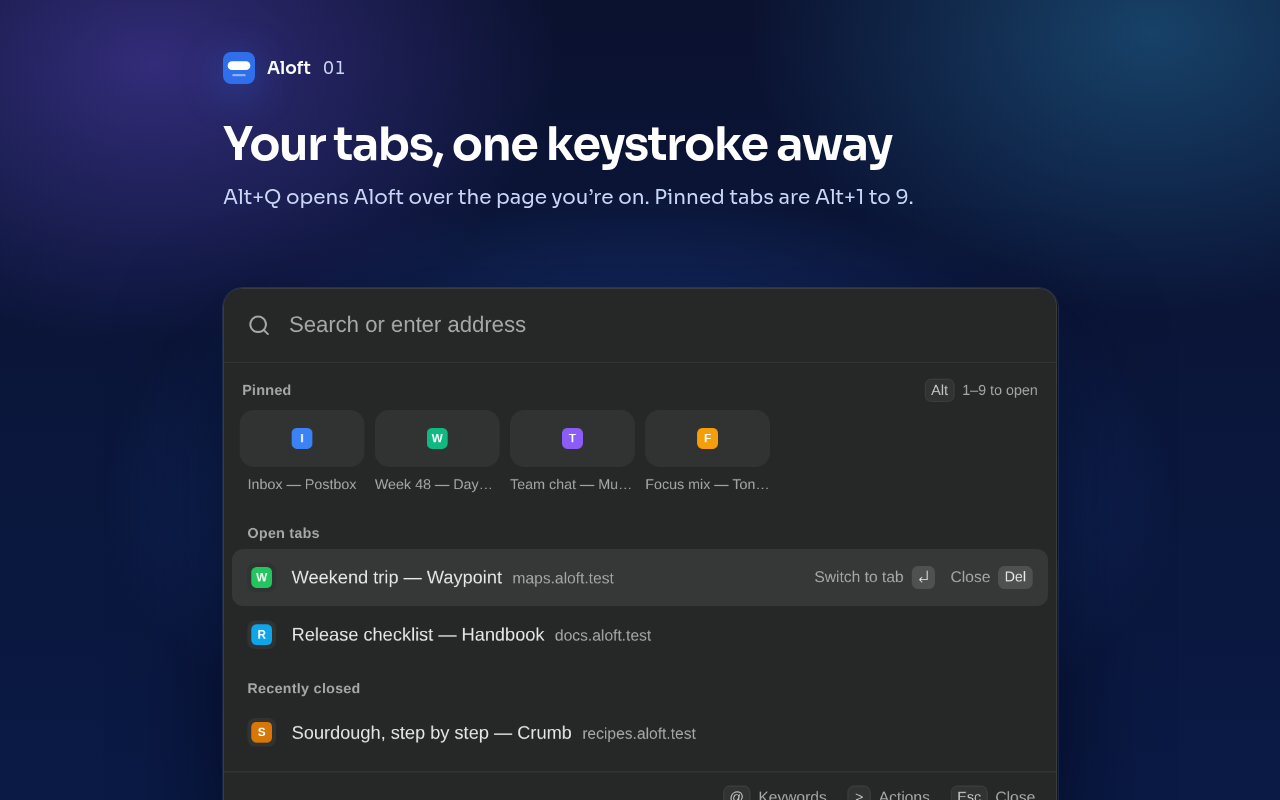
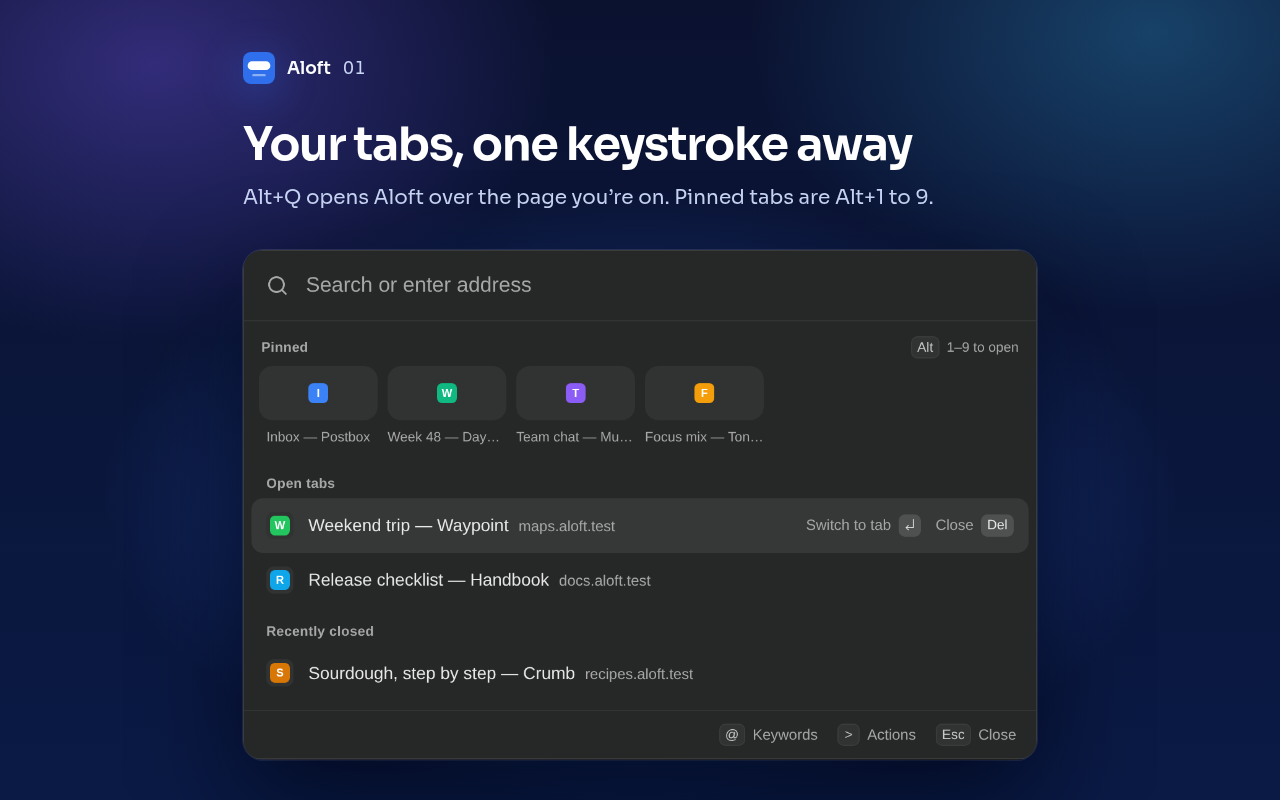
docs: show the whole palette in the first screenshot

diff --git a/scripts/screenshots.ts b/scripts/screenshots.ts
@@ -151,16 +151,31 @@ async function render(html: string, size: Size, name: string) {
   }
 }
 
+// Room under a capture that's shown whole.
+const BOTTOM_MARGIN = 40
+
 /**
  * One store screenshot: the logo, name and number, a headline and a line
  * under it, then the capture, which starts below them and runs off the
- * bottom edge.
+ * bottom edge. A `whole` capture is scaled down instead, if it has to be,
+ * to fit above the bottom edge.
  */
-async function frame(name: string, number: string, capture: Capture, caption: Caption) {
-  const width = Math.round(capture.crop.width * SCALE)
+async function frame(
+  name: string,
+  number: string,
+  capture: Capture,
+  caption: Caption,
+  { whole = false } = {},
+) {
+  const scale = whole
+    ? Math.min(SCALE, (VIEWPORT.height - SHOT_TOP - BOTTOM_MARGIN) / capture.crop.height)
+    : SCALE
+  const width = Math.round(capture.crop.width * scale)
   const left = Math.round((VIEWPORT.width - width) / 2)
   // Low enough that even a short capture runs off the bottom edge.
-  const top = Math.max(SHOT_TOP, VIEWPORT.height - capture.crop.height * SCALE + 24)
+  const top = whole
+    ? SHOT_TOP
+    : Math.max(SHOT_TOP, VIEWPORT.height - capture.crop.height * scale + 24)
   const html = `<!doctype html><html><head><meta charset="utf-8"><style>${base(VIEWPORT)}
 .head{position:absolute;top:52px;left:${left}px;right:${left}px}
 .brand{display:flex;align-items:center;gap:12px;font-weight:600;font-size:17px}
@@ -168,7 +183,7 @@ async function frame(name: string, number: string, capture: Capture, caption: Ca
 .brand span:last-child{color:#C9D6F5;font-weight:400;font-variant-numeric:tabular-nums}
 h1{margin:36px 0 0;font-weight:650;font-size:46px;line-height:1.08;letter-spacing:-.03em}
 p{margin:14px 0 0;font-weight:400;font-size:20px;line-height:1.4;color:#C9D6F5}
-.shot{position:absolute;top:${Math.round(top)}px;left:${left}px;${shotStyle(capture, SCALE, '20px 20px 0 0')}}
+.shot{position:absolute;top:${Math.round(top)}px;left:${left}px;${shotStyle(capture, scale, whole ? '20px' : '20px 20px 0 0')}}
 </style></head><body>
 <div class="head">
   <div class="brand"><span class="logo">${LOGO}</span><span>Aloft</span><span>${number}</span></div>
@@ -244,10 +259,17 @@ try {
   let aloft = await openAloft(worker, host)
   await settle(host)
   const first = await palette(host)
-  await frame('1-pinned-and-tabs', '01', first, {
-    title: 'Your tabs, one keystroke away',
-    text: 'Alt+Q opens Aloft over the page you’re on. Pinned tabs are Alt+1 to 9.',
-  })
+  await frame(
+    '1-pinned-and-tabs',
+    '01',
+    first,
+    {
+      title: 'Your tabs, one keystroke away',
+      text: 'Alt+Q opens Aloft over the page you’re on. Pinned tabs are Alt+1 to 9.',
+    },
+    // The first look at Aloft, so all of it, down to the hints at its foot.
+    { whole: true },
+  )
   await marquee(first)
 
   await aloft.getByRole('combobox').fill('e')
